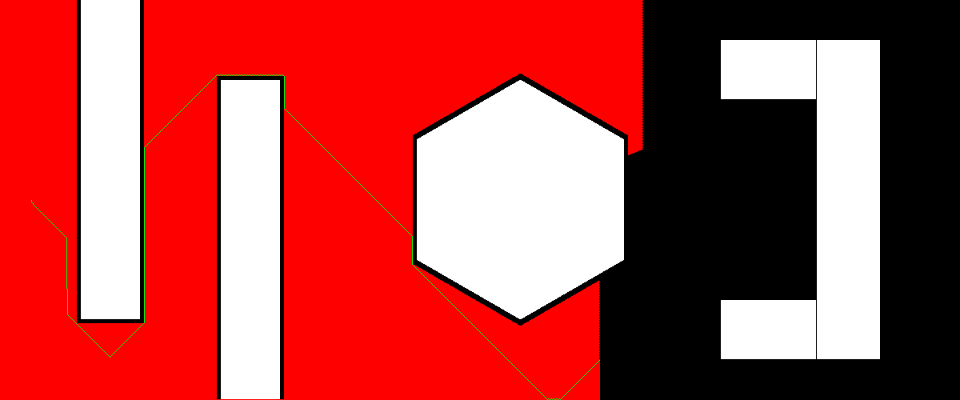
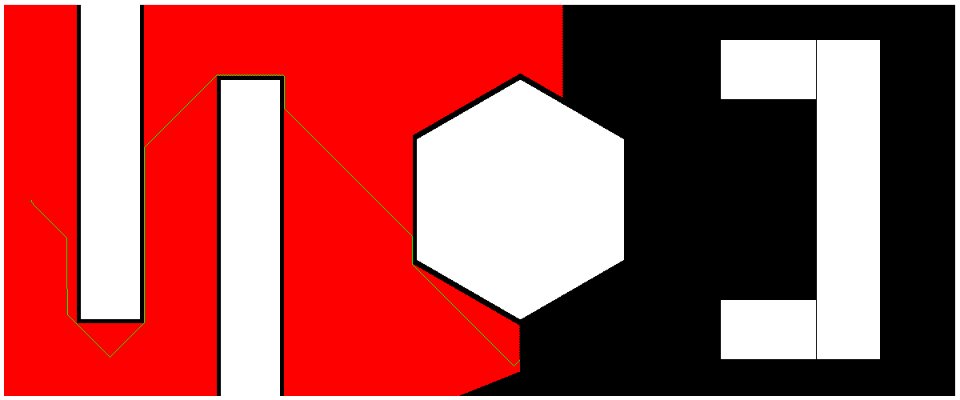
Update Code & README.md

Changed region(s): [[0.0, 0.0, 1.0, 1.0]]

diff --git a/dijkstra_Yi-Chung_Chen.py b/dijkstra_Yi-Chung_Chen.py
@@ -76,6 +76,18 @@ class PositionRobot:
                             (x>900 and y<125 and x<1020 and y>50):
                     self.MapSpace[y,x] = [255,255,255]
 
+                self.MapFlag[0:5, :] = 1
+                self.MapSpace[0:5, :] = [255,255,255]
+
+                self.MapFlag[:, 0:5] = 1
+                self.MapSpace[:, 0:5] = [255,255,255]
+                
+                self.MapFlag[:, 1194:1200] = 1
+                self.MapSpace[:, 1194:1200] = [255,255,255]
+                
+                self.MapFlag[494:500, :] = 1
+                self.MapSpace[494:500, :] = [255,255,255]
+
         return self.MapSpace, self.MapFlag
     
     def MoveUp(self, x, y):
@@ -159,7 +171,7 @@ class PositionRobot:
         
     
     def Visualization(self, VisitedNodes, BestPath):
-        out = cv2.VideoWriter('dijkstra.mp4', cv2.VideoWriter_fourcc(*'mp4v'), 20.0, (960,400))
+        out = cv2.VideoWriter('dijkstra.mp4', cv2.VideoWriter_fourcc(*'mp4v'), 100.0, (960,400))
         print('\nGenerating Video...')
         for count, coord in enumerate(tqdm(VisitedNodes)):
             x, y = coord
